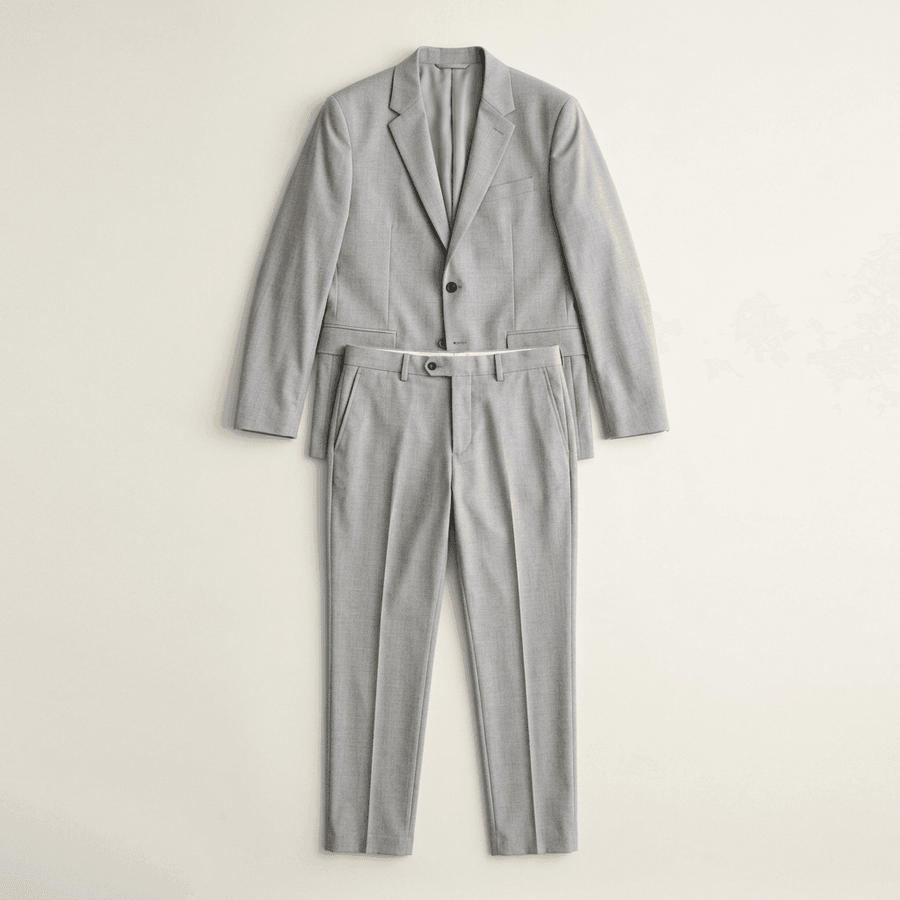
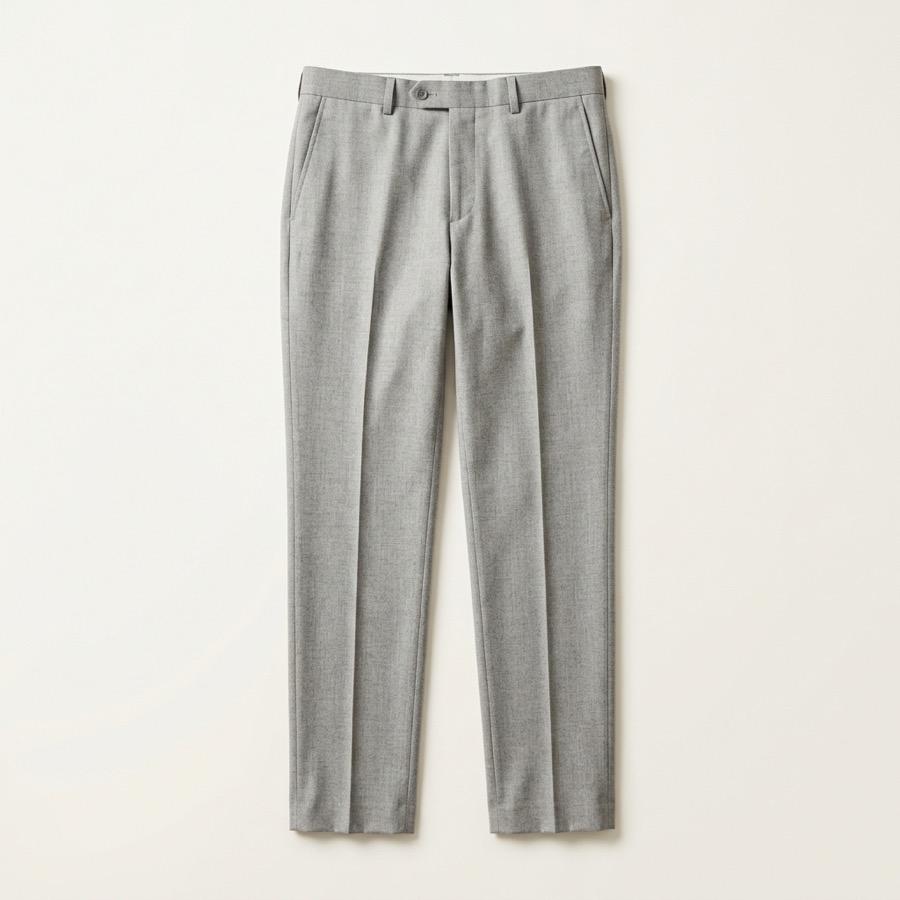
v0.2.249.10 fix: el "pantalón de vestir gris" ya no enseña el traje completo (#292)
* fix: el arquetipo del pantalón de traje gris claro ya no trae el saco puesto

La imagen (julio) mostraba el traje completo para una prenda de categoría
bottom; la prenda de Alberto la tomaba prestada vía attrs.image_path y por eso
su "pantalón de vestir gris" se veía como un conjunto. Regenerada con el
prompt de la casa, que desde agosto prohíbe "no extra garments". Los otros 5
pantalones de traje se revisaron y están bien: defecto aislado.

* chore: bump version and changelog (v0.2.249.10)

---------

diff --git a/CHANGELOG.md b/CHANGELOG.md
@@ -2,6 +2,25 @@
 
 Cambios notables de stailist. Formato basado en [Keep a Changelog](https://keepachangelog.com/es/); versiones `MAJOR.MINOR.PATCH.MICRO`.
 
+## [0.2.249.10] - 2026-08-17
+
+### Fixed — el "pantalón de vestir gris" ya no enseña el traje completo
+
+Alberto: *"la prenda de 'pantalón de vestir gris' debería ser solo pantalón
+pero la imagen muestra todo el conjunto con saco, eso saca de onda"*. Tenía
+razón, y el culpable no era su prenda: era la **imagen del catálogo** que su
+prenda tomó prestada.
+
+El arquetipo "Pantalón de traje gris claro" (categoría `bottom`) se generó en
+julio con el saco puesto encima. Sus cinco hermanos —carbón, marino, arena,
+azul claro, smoking— están bien: es un defecto aislado, de antes de que el
+prompt de arquetipos prohibiera explícitamente las prendas extra (agosto).
+Regenerada con ese prompt, ahora es lo que su nombre promete.
+
+Lo que hizo falta para encontrarlo fue el screenshot: la prenda de Alberto no
+tenía render propio, así que buscar por su nombre no llevaba a ninguna imagen
+defectuosa — la pista estaba en `attrs.image_path`, la imagen prestada.
+
 ## [0.2.249.9] - 2026-08-17
 
 ### Added — 25 prendas reales entran a la biblioteca
